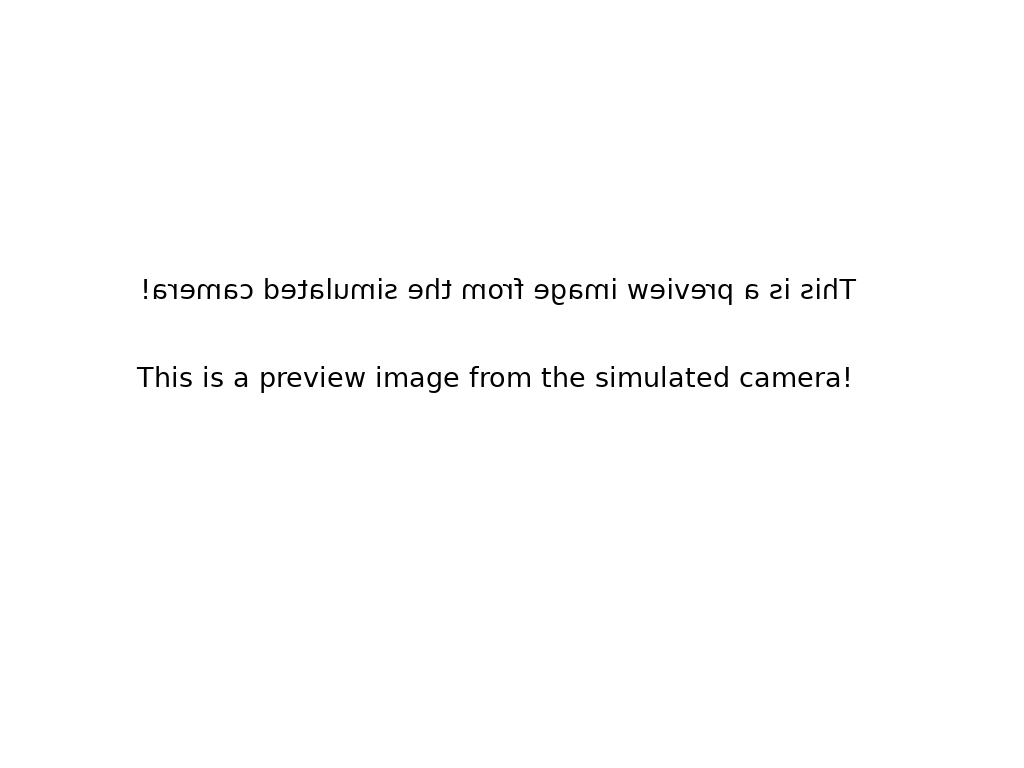
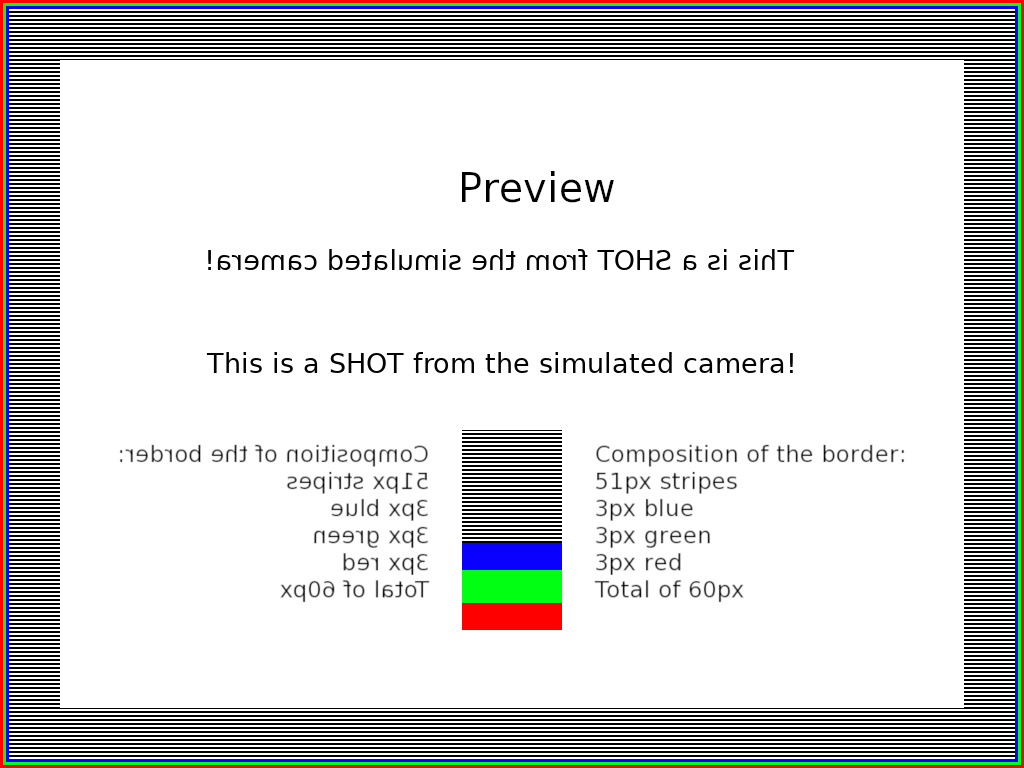
[Issue #30] - Made a new shotFrame.fxml and adapted the ShotFrameController/ShotFrameManager. A StackPane is now used, which is designed for layering two elements over each other. Also added Borders to the images that are returned by the simulated camera to clearly show if they are in the frame as a

diff --git a/src/main/java/org/openbooth/gui/ShotFrameController.java b/src/main/java/org/openbooth/gui/ShotFrameController.java
@@ -6,13 +6,10 @@ import javafx.embed.swing.SwingFXUtils;
 import javafx.event.ActionEvent;
 import javafx.event.EventHandler;
 import javafx.fxml.FXML;
-import javafx.geometry.Insets;
 import javafx.geometry.Rectangle2D;
 import javafx.scene.control.Label;
 import javafx.scene.image.Image;
 import javafx.scene.image.ImageView;
-import javafx.scene.input.MouseEvent;
-import javafx.scene.layout.BorderPane;
 import javafx.stage.Screen;
 import javafx.stage.Stage;
 import javafx.util.Duration;
@@ -33,8 +30,6 @@ import java.awt.image.BufferedImage;
 public class ShotFrameController {
     private static final Logger LOGGER = LoggerFactory.getLogger(ShotFrameController.class);
     @FXML
-    private BorderPane pane;
-    @FXML
     private ImageView shotView;
     @FXML
     private Label countdownLabel;
@@ -42,34 +37,29 @@ public class ShotFrameController {
     private int frameID;
     private Stage primaryStage;
 
-    final int[] startTimeSec = new int[]{0};
+    private int startTimeSec = 0;
     @FXML
     private void initialize(){
-        double screenWidth= Screen.getPrimary().getBounds().getWidth();
-        double screenHeight=Screen.getPrimary().getBounds().getHeight();
-        pane.setPrefHeight(screenHeight);
-        pane.setPrefWidth(screenWidth);
+        double screenHeight = Screen.getPrimary().getBounds().getHeight();
         shotView.setFitHeight(screenHeight);
-        shotView.setFitWidth(screenWidth);
 
     }
     public void initShotFrame(int cameraID,Stage primaryStage)  {
         this.frameID  = cameraID;
         this.primaryStage = primaryStage;
-       // showCountdown(10);
     }
 
     /*
      Precondition: shootingID must be defined
      Postcondition: the last image will be showed
      */
-    /** showing the last image taken
-     *
+    /**
+     * Showing the last image taken.
      */
     @FXML
     public void refreshShot(String imgPath) {
 
-        LOGGER.debug("refreshing Shot with imagepath = "+imgPath);
+        LOGGER.debug("refreshing Shot with imagepath = {}",imgPath);
         try {
             shotView.setImage(new Image(imgPath));
         }catch (Exception e){
@@ -86,32 +76,22 @@ public class ShotFrameController {
     }
 
     public void showCountdown(int countdown){
-
-        double screenWidth= Screen.getPrimary().getBounds().getWidth();
-        double screenHeight=Screen.getPrimary().getBounds().getHeight()-100;
-        countdownLabel.setPrefHeight(screenHeight/2);
-
-        int paddingBottom =  -((Double)(screenHeight/2)).intValue();
-        countdownLabel.setPadding(new Insets(0, 0,paddingBottom,0));
         createCounter(countdown).play();
     }
 
-    public Timeline createCounter(int countdown){
+    private Timeline createCounter(int countdown){
         Timeline timeline = new Timeline();
-        startTimeSec[0] = countdown;
-        KeyFrame keyframe = new KeyFrame(Duration.seconds(1), new EventHandler<ActionEvent>() {
-            @Override
-            public void handle(ActionEvent event) {
-
-                startTimeSec[0]--;
-                if (startTimeSec[0]==0) {
+        startTimeSec = countdown;
+        KeyFrame keyframe = new KeyFrame(Duration.seconds(1), (ActionEvent event) -> {
+                startTimeSec--;
+                if (startTimeSec==0) {
                     timeline.stop();
                     countdownLabel.setVisible(false);
                 }else{
-                    countdownLabel.setText(String.valueOf(startTimeSec[0]));
+                    countdownLabel.setText(String.valueOf(startTimeSec));
                     countdownLabel.setVisible(true);
                 }
-            }
+
         });
 
 
@@ -120,7 +100,7 @@ public class ShotFrameController {
         return timeline;
     }
     public boolean isExpired(){
-       return startTimeSec[0] == 0;
+       return startTimeSec == 0;
     }
 
     public int getFrameID(){
@@ -128,7 +108,7 @@ public class ShotFrameController {
     }
 
     @FXML
-    public void shotFrameClicked(MouseEvent mouseEvent) {
+    public void shotFrameClicked() {
         primaryStage.setFullScreen(true);
         Screen screen = Screen.getPrimary();
         Rectangle2D bounds = screen.getVisualBounds();

diff --git a/src/main/java/org/openbooth/gui/ShotFrameManager.java b/src/main/java/org/openbooth/gui/ShotFrameManager.java
@@ -1,8 +1,6 @@
 package org.openbooth.gui;
 
 import org.openbooth.entities.Position;
-import org.openbooth.service.exceptions.ServiceException;
-import javafx.fxml.FXMLLoader;
 import javafx.scene.Parent;
 import javafx.scene.Scene;
 import javafx.stage.Stage;
@@ -75,19 +73,19 @@ public class ShotFrameManager {
     }
 
     public void refreshShot(int cameraID,String imgPath) {
-        LOGGER.debug("ShotFrameManager->refreshshot with cameraID="+cameraID+", imgPath="+imgPath);
+        LOGGER.debug("ShotFrameManager->refreshshot with cameraID={}, imgPath={}",cameraID,imgPath);
         getShotframe(cameraID).refreshShot(imgPath);
 
     }
     public void refreshShot(int cameraID,BufferedImage img) {
-        LOGGER.debug("ShotFrameManager->refreshshot with cameraID="+cameraID);
+        LOGGER.debug("ShotFrameManager->refreshshot with cameraID={}",cameraID);
         getShotframe(cameraID).refreshShot(img);
 
     }
 
 
     public void refreshShot(Position position, BufferedImage img){
-        LOGGER.debug("ShotFrameManager->refreshshot with position="+position.getName());
+        LOGGER.debug("ShotFrameManager->refreshshot with position={}",position.getName());
         getShotframe(position).refreshShot(img);
     }
 
@@ -109,7 +107,7 @@ public class ShotFrameManager {
     }
 
     public void showCountdown(Position position,int countdown){
-        LOGGER.debug("ShotFrameManager->showCountdown with position="+position.getName()+" and countdown = "+countdown);
+        LOGGER.debug("ShotFrameManager->showCountdown with position={} and countdown = {}",position.getName(),countdown);
         getShotframe(position).showCountdown(countdown);
 
     }
@@ -118,7 +116,7 @@ public class ShotFrameManager {
             stage.close();
     }
     public boolean isExpired(Position position){
-        LOGGER.debug("ShotFrameManager->isExpired with position="+position.getName());
+        LOGGER.debug("ShotFrameManager->isExpired with position={}",position.getName());
         return getShotframe(position).isExpired();
     }
 }
